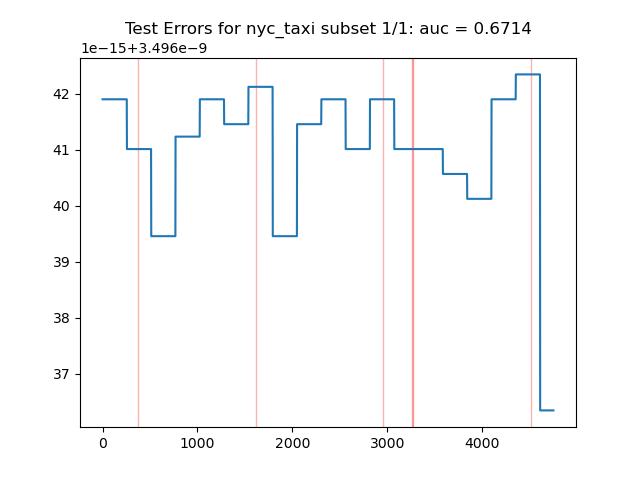
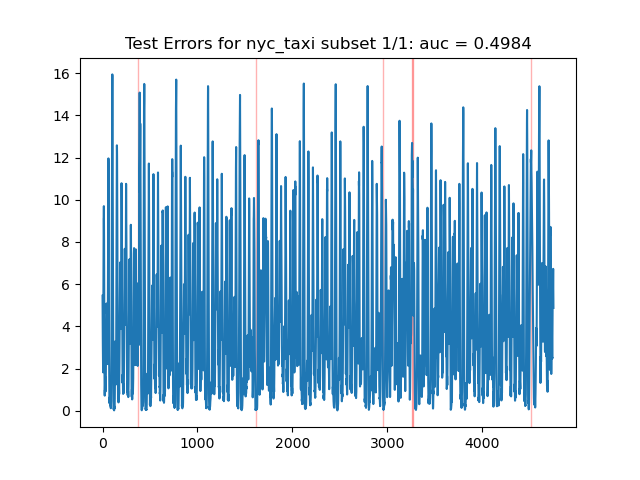
fresh

diff --git a/models/base_model.py b/models/base_model.py
@@ -10,65 +10,6 @@ from models.mask import apply_masks
 from models.schedulers import WarmupCosineSchedule, CosineWDSchedule
 from models.vicreg import VICRegLoss
 
-class RevIN(nn.Module):
-    def __init__(self, num_features: int, eps=1e-5, affine=True, subtract_last=False):
-        """
-        :param num_features: the number of features or channels
-        :param eps: a value added for numerical stability
-        :param affine: if True, RevIN has learnable affine parameters
-        """
-        super(RevIN, self).__init__()
-        self.num_features = num_features
-        self.eps = eps
-        self.affine = affine
-        self.subtract_last = subtract_last
-        if self.affine:
-            self._init_params()
-
-    def forward(self, x, mode:str):
-        if mode == 'norm':
-            self._get_statistics(x)
-            x = self._normalize(x)
-        elif mode == 'denorm':
-            x = self._denormalize(x)
-        else: raise NotImplementedError
-        return x
-
-    def _init_params(self):
-        # initialize RevIN params: (C,)
-        self.affine_weight = nn.Parameter(torch.ones(self.num_features))
-        self.affine_bias = nn.Parameter(torch.zeros(self.num_features))
-
-    def _get_statistics(self, x):
-        dim2reduce = tuple(range(1, x.ndim-1))
-        if self.subtract_last:
-            self.last = x[:,-1,:].unsqueeze(1)
-        else:
-            self.mean = torch.mean(x, dim=dim2reduce, keepdim=True).detach()
-        self.stdev = torch.sqrt(torch.var(x, dim=dim2reduce, keepdim=True, unbiased=False) + self.eps).detach()
-
-    def _normalize(self, x):
-        if self.subtract_last:
-            x = x - self.last
-        else:
-            x = x - self.mean
-        x = x / self.stdev
-        if self.affine:
-            x = x * self.affine_weight
-            x = x + self.affine_bias
-        return x
-
-    def _denormalize(self, x):
-        if self.affine:
-            x = x - self.affine_bias
-            x = x / (self.affine_weight + self.eps*self.eps)
-        x = x * self.stdev
-        if self.subtract_last:
-            x = x + self.last
-        else:
-            x = x + self.mean
-        return x
-
 class Patcher(nn.Module):
     def __init__(self, window_size, patch_len):
         super().__init__()
@@ -306,8 +247,6 @@ class PatchTrADencoder(nn.Module):
         shape = self.patcher.shape
         patch_num = shape["patch_num"]
 
-        self.revin = RevIN(num_features=1, eps=1e-5, affine=True, subtract_last=False)
-
         self.encoder = TSTiEncoder(patch_num=patch_num, patch_len=patch_len, d_model=d_model, 
                                    n_heads=n_heads, n_layers=n_layers, d_ff=d_ff, attn_dp=attn_dp,
                                    dp=dp)
@@ -315,12 +254,9 @@ class PatchTrADencoder(nn.Module):
     
 
     def forward(self, x, mask=None):
-
         # Input: 
 
         # x: bs x window_size x nvars
-
-        x = self.revin(x, mode="norm")
         
         patched = self._get_patch(x) # bs x nvars x patch_len x patch_num
         
@@ -463,8 +399,8 @@ class LitJEPA(L.LightningModule):
         self.log('Pred Loss', pred_loss)
 
         std_loss, cov_loss = self.vicreg(z)
-        self.log('Std Loss', std_loss)
-        self.log('Cov Loss', cov_loss)
+        self.log('Std Loss (between individus)', std_loss)
+        self.log('Cov Loss (between features)', cov_loss)
 
         loss = self.coeff_pred*pred_loss + self.coeff_std*std_loss + self.coeff_cov*cov_loss
         self.log('Total Loss', loss)

diff --git a/models/ft_model.py b/models/ft_model.py
@@ -60,7 +60,6 @@ class PatchTrAD(nn.Module):
         checkpoint_path = config.save_path + "_" + str(config.load_epoch) + ".ckpt"
         checkpoint = torch.load(checkpoint_path, weights_only=True)
         self.encoder.load_state_dict(checkpoint)
-        self.encoder.eval()
         self.encoder.requires_grad_(False if config.freeze_encoder else True)
 
         self.head = Head(config.in_dim, config.patch_len, num_patches, config.d_model, config.head_dp if config.head_dp else 0)
@@ -69,7 +68,8 @@ class PatchTrAD(nn.Module):
         self.mask = torch.linspace(0, num_patches-2, num_patches-1, dtype=torch.int64).unsqueeze(0)
 
     def forward(self, x):
-        mask = self.mask.repeat(x.shape[0], 1).to(x.device) 
+        #mask = self.mask.repeat(x.shape[0], 1).to(x.device) 
+        mask = None
         patched, h = self.encoder(x, mask=mask)
 
         out = self.head(h)
@@ -77,10 +77,16 @@ class PatchTrAD(nn.Module):
     
     def get_loss(self, x, mode="train"):
 
-        inp, out = self.forward(x); 
-        inp = inp[:, :, -1, :]
+        inp, out = self.forward(x)
 
-        error = ((out - inp)**2).flatten(start_dim=1).mean(dim=(1))
+        if mode=="train":
+            error = ((out - inp)**2).flatten(start_dim=1).mean(dim=(1))
+            
+        elif mode=="test":
+            inp = inp[:, :, -1, :]
+            out = out[:, :, -1, :]
+            error = ((out - inp)**2).flatten(start_dim=1).mean(dim=(1))
+
         return error
     
 class PatchTradLit(L.LightningModule):
